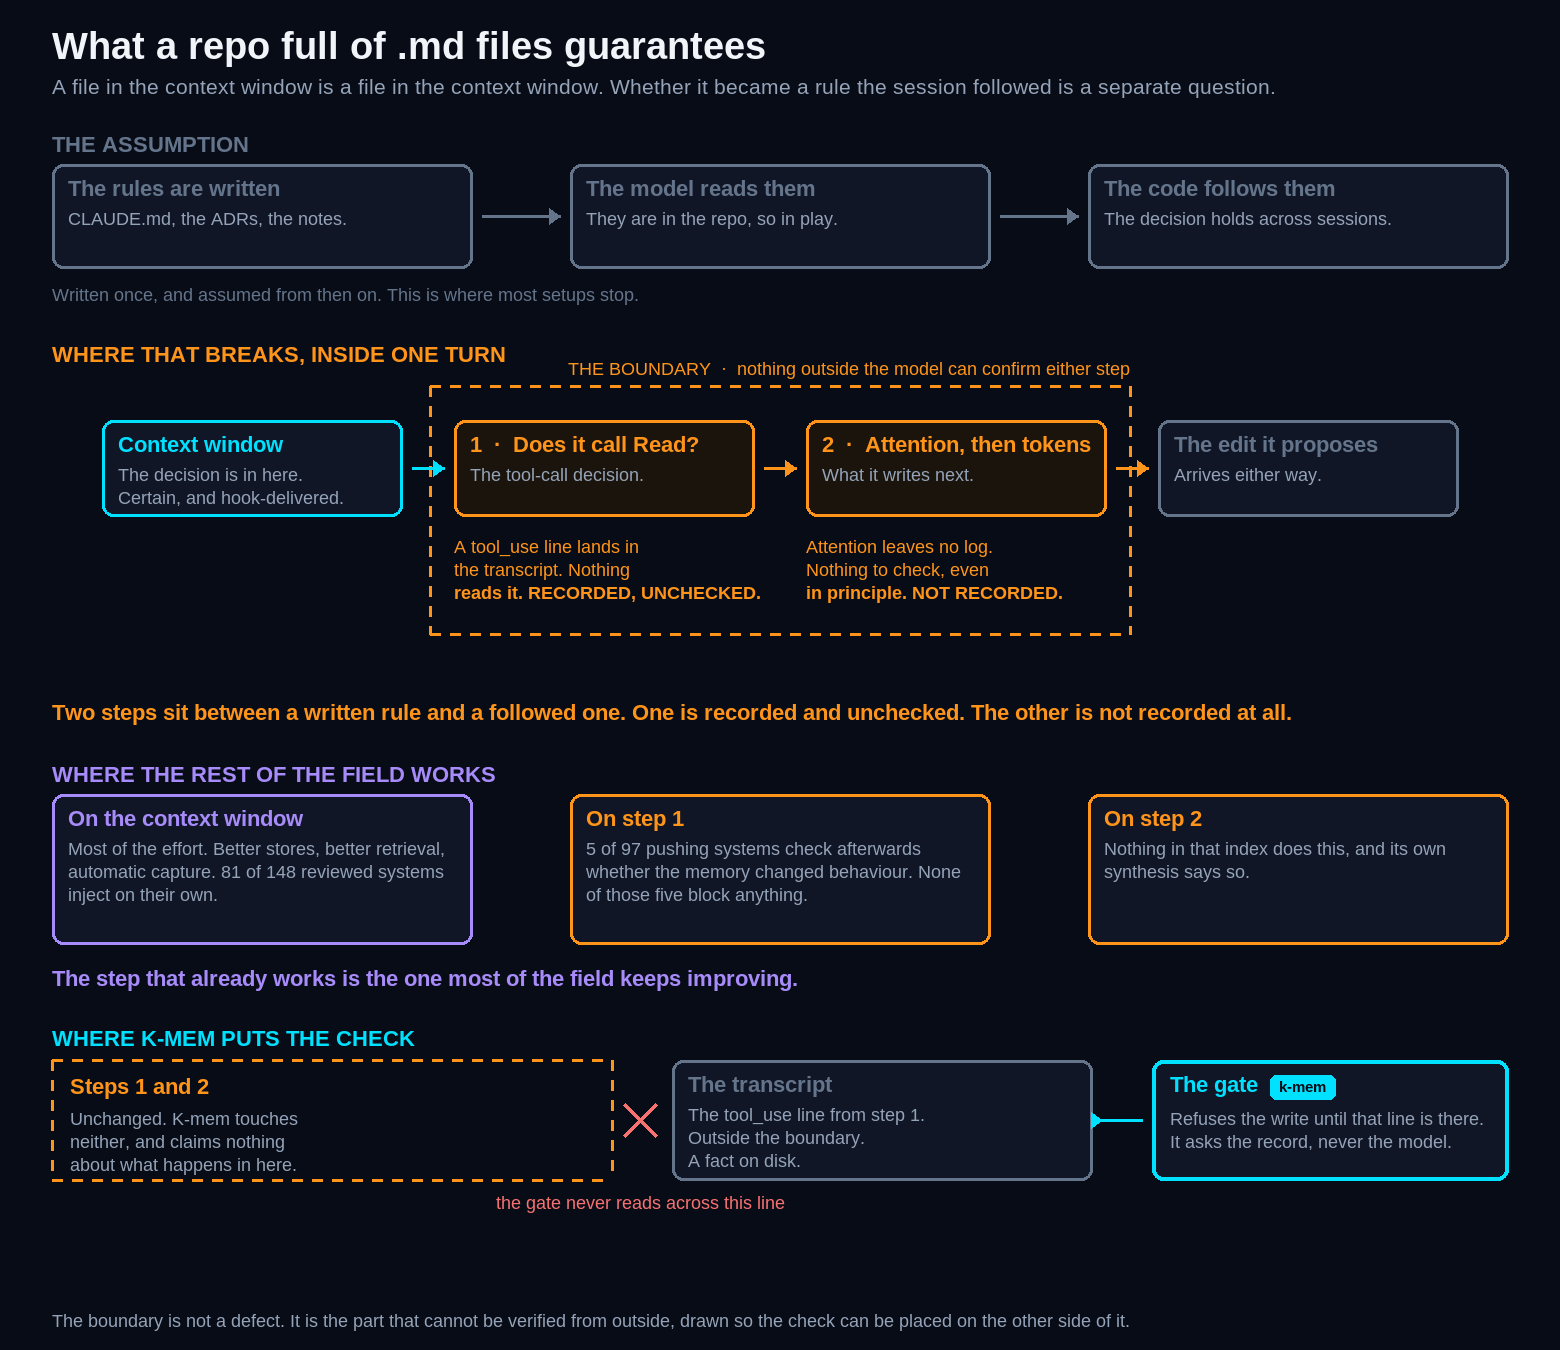
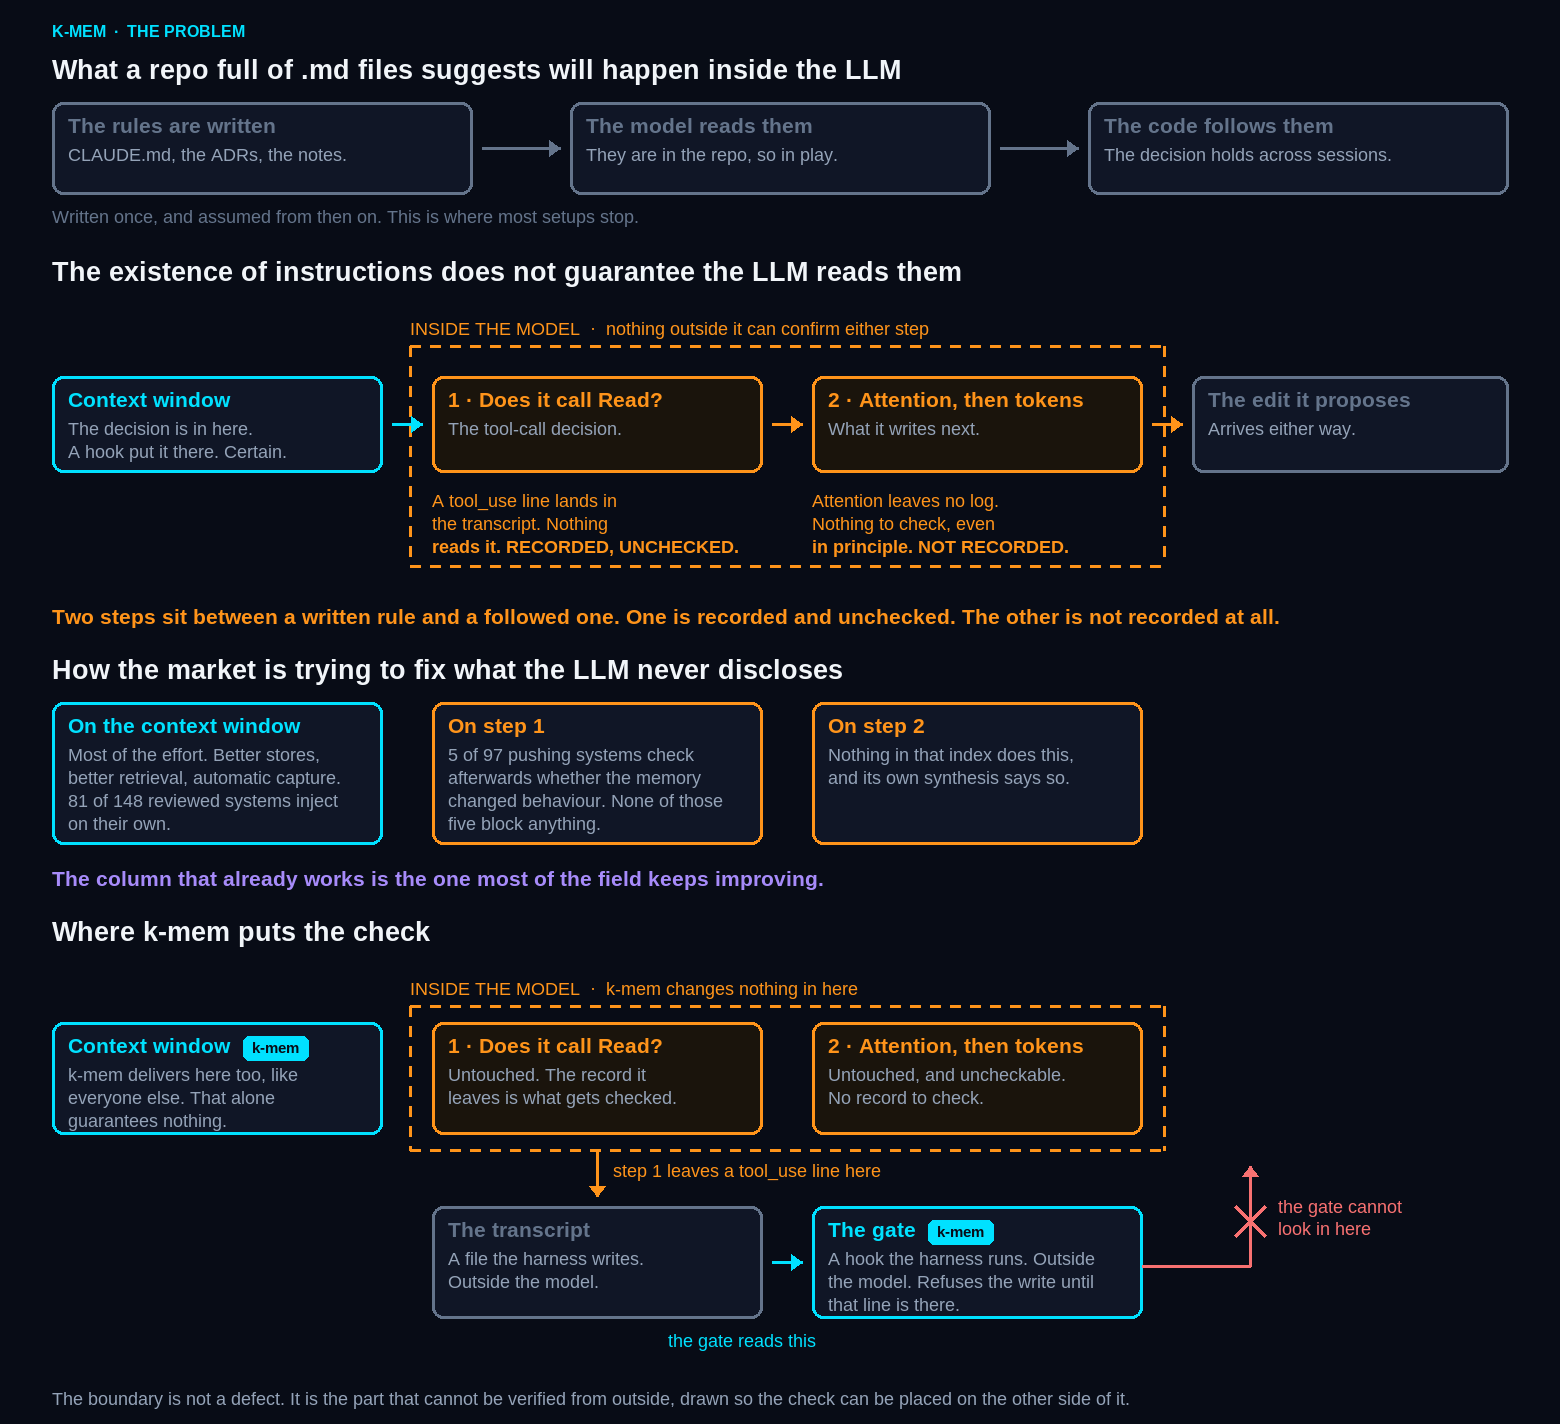
docs: rebuild the problem diagram around four equal sections
Four white headers of the same weight, one per section, replacing one
title and four coloured band labels. The first now says what a repo of
.md files suggests will happen inside the LLM, because that band shows
an assumption rather than a guarantee.

Three columns hold the same x down the page, so the context window,
step 1 and step 2 can be tracked downward. Colour follows meaning
rather than section: cyan for what is certain, orange for what is
sampled. The market band's first box was purple while the same column
above it was cyan, which broke that reading.

Two corrections of substance. K-mem does deliver to the context window,
the same place the rest of the field works, and saying otherwise
overclaimed; the box now says so and adds that delivery alone
guarantees nothing. And steps 1 and 2 are no longer lumped together:
step 1 leaves a record that can be checked, step 2 leaves none.

The transcript and the gate used to appear in the last band with no
origin. An arrow now runs from step 1 down to the transcript, both are
labelled as living outside the model, and the crossed line says the
gate cannot look inside rather than the unexplained "never reads
across this line".

diff --git a/scripts/make_brand_images.py b/scripts/make_brand_images.py
@@ -158,20 +158,22 @@ def make_gate_demo() -> Path:
 
 
 def make_fallacy() -> Path:
-    """The belief, where in the loop it breaks, and where the check goes.
+    """Four sections with equal white headers, three columns that hold the same x
+    down the page so a reader can track one column downward.
 
-    Band 2 locates the two unverifiable steps inside the model's own sequence
-    and draws the boundary around them. Band 4 puts the gate outside that
-    boundary, reading the record. Those two placements are the argument; a
-    version without them describes the problem and never answers it.
+    Colour carries meaning rather than section: cyan for what is certain, orange
+    for what is sampled. Band 4 places the transcript and the gate outside the
+    model and shows where the transcript's line comes from, because a check that
+    appears with no origin reads as an assertion.
     """
-    W, H = 1560, 1350
+    W, H = 1560, 1424
     im = Image.new("RGBA", (W, H), NAVY + (255,))
     d = ImageDraw.Draw(im)
-    f_title, f_band = font(SANS_BOLD, 38), font(SANS_BOLD, 22)
-    f_box, f_body, f_small = font(SANS_BOLD, 22), font(SANS, 21), font(SANS, 18)
-    f_tag = font(SANS_BOLD, 15)
+    f_h, f_over = font(SANS_BOLD, 27), font(SANS_BOLD, 16)
+    f_box, f_small, f_stmt = font(SANS_BOLD, 21), font(SANS, 18), font(SANS_BOLD, 21)
+    f_tag, f_lead = font(SANS_BOLD, 15), font(SANS_BOLD, 18)
     M, GREY, PURPLE = 52, (100, 116, 139), (167, 139, 250)
+    COLS, CW, DW = [52, 432, 812, 1192], 330, 316
 
     def wrap(text, f, limit):
         out, line = [], ""
@@ -183,20 +185,22 @@ def make_fallacy() -> Path:
                 line = trial
         return out + ([line] if line else [])
 
-    def box(x, y, w, h, title, body, colour, fill=PANEL, tint=None):
-        d.rounded_rectangle([(x, y), (x + w, y + h)], radius=11, fill=(tint or fill) + (255,), outline=colour + (255,), width=3)
-        d.text((x + 16, y + 12), title, font=f_box, fill=colour)
-        yy = y + 44
+    def box(x, y, w, h, title, body, colour, tint=None, mine=False):
+        d.rounded_rectangle([(x, y), (x + w, y + h)], radius=11, fill=(tint or PANEL) + (255,), outline=colour + (255,), width=3)
+        d.text((x + 16, y + 11), title, font=f_box, fill=colour)
+        if mine:
+            tx = x + 16 + d.textbbox((0, 0), title, font=f_box)[2] + 12
+            tw = d.textbbox((0, 0), "k-mem", font=f_tag)[2] + 18
+            d.rounded_rectangle([(tx, y + 14), (tx + tw, y + 38)], radius=6, fill=CYAN + (255,))
+            d.text((tx + 9, y + 17), "k-mem", font=f_tag, fill=NAVY)
+        yy = y + 42
         for ln in body:
             for piece in wrap(ln, f_small, w - 32):
                 d.text((x + 16, yy), piece, font=f_small, fill=MUTED); yy += 23
 
-    def h_arrow(x1, x2, y, colour, label=""):
+    def h_arrow(x1, x2, y, colour):
         d.line([(x1, y), (x2, y)], fill=colour, width=3)
         d.polygon([(x2, y), (x2 - 11, y - 8), (x2 - 11, y + 8)], fill=colour)
-        if label:
-            w = d.textbbox((0, 0), label, font=f_small)[2]
-            d.text(((x1 + x2 - w) // 2, y - 30), label, font=f_small, fill=colour)
 
     def dashed_rect(x1, y1, x2, y2, colour, step=20):
         for i in range(0, x2 - x1, step):
@@ -206,85 +210,80 @@ def make_fallacy() -> Path:
             d.line([(x1, y1 + i), (x1, y1 + min(i + 10, y2 - y1))], fill=colour, width=3)
             d.line([(x2, y1 + i), (x2, y1 + min(i + 10, y2 - y1))], fill=colour, width=3)
 
-    d.text((M, 24), "What a repo full of .md files guarantees", font=f_title, fill=FG)
-    d.text((M, 74), "A file in the context window is a file in the context window. Whether it became a rule the session followed is a separate question.",
-           font=f_body, fill=MUTED)
+    d.text((M, 22), "K-MEM  ·  THE PROBLEM", font=f_over, fill=CYAN)
 
-    # --- band 1: the belief ----------------------------------------------------
-    d.text((M, 132), "THE ASSUMPTION", font=f_band, fill=GREY)
-    bw, by, bh = 420, 164, 104
-    gap = (W - 2 * M - 3 * bw) // 2
-    box(M, by, bw, bh, "The rules are written", ["CLAUDE.md, the ADRs, the notes."], GREY)
-    box(M + bw + gap, by, bw, bh, "The model reads them", ["They are in the repo, so in play."], GREY)
-    box(M + 2 * (bw + gap), by, bw, bh, "The code follows them", ["The decision holds across sessions."], GREY)
-    h_arrow(M + bw + 10, M + bw + gap - 10, by + bh // 2, GREY)
-    h_arrow(M + 2 * bw + gap + 10, M + 2 * (bw + gap) - 10, by + bh // 2, GREY)
-    d.text((M, by + bh + 16), "Written once, and assumed from then on. This is where most setups stop.", font=f_small, fill=GREY)
-
-    # --- band 2: where it actually happens, inside the model --------------------
-    d.text((M, 342), "WHERE THAT BREAKS, INSIDE ONE TURN", font=f_band, fill=ORANGE)
-    sy, sh, sw = 420, 96, 300
-    xs = [102, 454, 806, 1158]
-    dashed_rect(xs[1] - 24, sy - 34, xs[2] + sw + 24, sy + sh + 118, ORANGE)
-    bl = "THE BOUNDARY  ·  nothing outside the model can confirm either step"
-    d.text((xs[2] + sw + 24 - d.textbbox((0, 0), bl, font=f_small)[2], sy - 62), bl, font=f_small, fill=ORANGE)
-    box(xs[0], sy, sw, sh, "Context window", ["The decision is in here.", "Certain, and hook-delivered."], CYAN)
-    box(xs[1], sy, sw, sh, "1  ·  Does it call Read?", ["The tool-call decision."], ORANGE, tint=(26, 20, 12))
-    box(xs[2], sy, sw, sh, "2  ·  Attention, then tokens", ["What it writes next."], ORANGE, tint=(26, 20, 12))
-    box(xs[3], sy, sw, sh, "The edit it proposes", ["Arrives either way."], GREY)
-    for a, b in [(0, 1), (1, 2), (2, 3)]:
-        h_arrow(xs[a] + sw + 10, xs[b] - 10, sy + sh // 2, ORANGE if a else CYAN)
-    d.text((xs[1], sy + sh + 20), "A tool_use line lands in", font=f_small, fill=ORANGE)
-    d.text((xs[1], sy + sh + 43), "the transcript. Nothing", font=f_small, fill=ORANGE)
-    d.text((xs[1], sy + sh + 66), "reads it. RECORDED, UNCHECKED.", font=font(SANS_BOLD, 18), fill=ORANGE)
-    d.text((xs[2], sy + sh + 20), "Attention leaves no log.", font=f_small, fill=ORANGE)
-    d.text((xs[2], sy + sh + 43), "Nothing to check, even", font=f_small, fill=ORANGE)
-    d.text((xs[2], sy + sh + 66), "in principle. NOT RECORDED.", font=font(SANS_BOLD, 18), fill=ORANGE)
-    d.text((M, 700), "Two steps sit between a written rule and a followed one. One is recorded and unchecked. The other is not recorded at all.",
-           font=font(SANS_BOLD, 22), fill=ORANGE)
-
-    # --- band 3: where the field works -----------------------------------------
-    d.text((M, 762), "WHERE THE REST OF THE FIELD WORKS", font=f_band, fill=PURPLE)
-    ey, eh, ew = 794, 150, 420
-    for i, (head, body, colour) in enumerate([
-        ("On the context window", "Most of the effort. Better stores, better retrieval, automatic capture. 81 of 148 reviewed systems inject on their own.", PURPLE),
-        ("On step 1", "5 of 97 pushing systems check afterwards whether the memory changed behaviour. None of those five block anything.", ORANGE),
-        ("On step 2", "Nothing in that index does this, and its own synthesis says so.", ORANGE),
+    # --- 1 · the assumption ----------------------------------------------------
+    d.text((M, 54), "What a repo full of .md files suggests will happen inside the LLM", font=f_h, fill=FG)
+    by, bh, w1 = 102, 92, 420
+    g1 = (W - 2 * M - 3 * w1) // 2
+    for i, (title, body) in enumerate([
+        ("The rules are written", "CLAUDE.md, the ADRs, the notes."),
+        ("The model reads them", "They are in the repo, so in play."),
+        ("The code follows them", "The decision holds across sessions."),
     ]):
-        x = M + i * (ew + gap)
-        box(x, ey, ew, eh, head, [body], colour)
-    d.text((M, 966), "The step that already works is the one most of the field keeps improving.", font=font(SANS_BOLD, 22), fill=PURPLE)
+        box(M + i * (w1 + g1), by, w1, bh, title, [body], GREY)
+    h_arrow(M + w1 + 10, M + w1 + g1 - 10, by + bh // 2, GREY)
+    h_arrow(M + 2 * w1 + g1 + 10, M + 2 * (w1 + g1) - 10, by + bh // 2, GREY)
+    d.text((M, 206), "Written once, and assumed from then on. This is where most setups stop.", font=f_small, fill=GREY)
 
-    # --- band 4: the check, outside the boundary --------------------------------
-    d.text((M, 1026), "WHERE K-MEM PUTS THE CHECK", font=f_band, fill=CYAN)
-    gy = 1060
-    dashed_rect(M, gy, M + 560, gy + 120, ORANGE)
-    d.text((M + 18, gy + 14), "Steps 1 and 2", font=f_box, fill=ORANGE)
-    d.text((M + 18, gy + 48), "Unchanged. K-mem touches", font=f_small, fill=MUTED)
-    d.text((M + 18, gy + 71), "neither, and claims nothing", font=f_small, fill=MUTED)
-    d.text((M + 18, gy + 94), "about what happens in here.", font=f_small, fill=MUTED)
+    # --- 2 · where it breaks ---------------------------------------------------
+    d.text((M, 256), "The existence of instructions does not guarantee the LLM reads them", font=f_h, fill=FG)
+    sy, sh = 376, 96
+    d.text((COLS[1] - 22, 318), "INSIDE THE MODEL  ·  nothing outside it can confirm either step", font=f_small, fill=ORANGE)
+    dashed_rect(COLS[1] - 22, 346, COLS[2] + CW + 22, 566, ORANGE)
+    box(COLS[0], sy, CW, sh, "Context window", ["The decision is in here.", "A hook put it there. Certain."], CYAN)
+    box(COLS[1], sy, CW, sh, "1 · Does it call Read?", ["The tool-call decision."], ORANGE, tint=(26, 20, 12))
+    box(COLS[2], sy, CW, sh, "2 · Attention, then tokens", ["What it writes next."], ORANGE, tint=(26, 20, 12))
+    box(COLS[3], sy, DW, sh, "The edit it proposes", ["Arrives either way."], GREY)
+    for a, b in [(0, 1), (1, 2), (2, 3)]:
+        h_arrow(COLS[a] + CW + 10, COLS[b] - 10, sy + sh // 2, CYAN if a == 0 else ORANGE)
+    for col, lines in [(COLS[1], ["A tool_use line lands in", "the transcript. Nothing", "reads it. RECORDED, UNCHECKED."]),
+                       (COLS[2], ["Attention leaves no log.", "Nothing to check, even", "in principle. NOT RECORDED."])]:
+        for i, ln in enumerate(lines):
+            d.text((col, 490 + i * 23), ln, font=f_lead if i == 2 else f_small, fill=ORANGE)
+    d.text((M, 604), "Two steps sit between a written rule and a followed one. One is recorded and unchecked. The other is not recorded at all.",
+           font=f_stmt, fill=ORANGE)
 
-    box(M + 620, gy, 420, 120, "The transcript", ["The tool_use line from step 1.", "Outside the boundary.", "A fact on disk."], GREY)
+    # --- 3 · the market --------------------------------------------------------
+    d.text((M, 654), "How the market is trying to fix what the LLM never discloses", font=f_h, fill=FG)
+    ey, eh = 702, 142
+    box(COLS[0], ey, CW, eh, "On the context window", ["Most of the effort. Better stores,", "better retrieval, automatic capture.",
+                                                       "81 of 148 reviewed systems inject", "on their own."], CYAN)
+    box(COLS[1], ey, CW, eh, "On step 1", ["5 of 97 pushing systems check", "afterwards whether the memory",
+                                           "changed behaviour. None of those", "five block anything."], ORANGE)
+    box(COLS[2], ey, CW, eh, "On step 2", ["Nothing in that index does this,", "and its own synthesis says so."], ORANGE)
+    d.text((M, 866), "The column that already works is the one most of the field keeps improving.", font=f_stmt, fill=PURPLE)
 
-    gx = M + 1100
-    d.rounded_rectangle([(gx, gy), (W - M, gy + 120)], radius=11, fill=PANEL + (255,), outline=CYAN + (255,), width=4)
-    d.text((gx + 18, gy + 12), "The gate", font=f_box, fill=CYAN)
-    tw = d.textbbox((0, 0), "k-mem", font=f_tag)[2] + 18
-    d.rounded_rectangle([(gx + 18 + d.textbbox((0, 0), "The gate", font=f_box)[2] + 12, gy + 15),
-                         (gx + 18 + d.textbbox((0, 0), "The gate", font=f_box)[2] + 12 + tw, gy + 39)], radius=6, fill=CYAN + (255,))
-    d.text((gx + 27 + d.textbbox((0, 0), "The gate", font=f_box)[2] + 12, gy + 18), "k-mem", font=f_tag, fill=NAVY)
-    yy = gy + 48
-    for piece in wrap("Refuses the write until that line is there. It asks the record, never the model.", f_small, W - M - gx - 32):
-        d.text((gx + 18, yy), piece, font=f_small, fill=MUTED); yy += 23
+    # --- 4 · the check ---------------------------------------------------------
+    d.text((M, 916), "Where k-mem puts the check", font=f_h, fill=FG)
+    ky, kh = 1022, 112
+    d.text((COLS[1] - 22, 978), "INSIDE THE MODEL  ·  k-mem changes nothing in here", font=f_small, fill=ORANGE)
+    dashed_rect(COLS[1] - 22, 1006, COLS[2] + CW + 22, 1150, ORANGE)
+    box(COLS[0], ky, CW, kh, "Context window", ["k-mem delivers here too, like", "everyone else. That alone",
+                                                "guarantees nothing."], CYAN, mine=True)
+    box(COLS[1], ky, CW, kh, "1 · Does it call Read?", ["Untouched. The record it", "leaves is what gets checked."], ORANGE, tint=(26, 20, 12))
+    box(COLS[2], ky, CW, kh, "2 · Attention, then tokens", ["Untouched, and uncheckable.", "No record to check."], ORANGE, tint=(26, 20, 12))
 
-    h_arrow(gx - 10, M + 620 + 420 + 10, gy + 60, CYAN)
-    cx = M + 588
-    for a, b in [((cx - 16, gy + 44), (cx + 16, gy + 76)), ((cx + 16, gy + 44), (cx - 16, gy + 76))]:
+    ty, th = 1206, 112
+    box(COLS[1], ty, CW, th, "The transcript", ["A file the harness writes.", "Outside the model."], GREY)
+    box(COLS[2], ty, CW, th, "The gate", ["A hook the harness runs. Outside", "the model. Refuses the write until", "that line is there."], CYAN, mine=True)
+    # step 1 is where the transcript's line comes from
+    d.line([(COLS[1] + CW // 2, 1150), (COLS[1] + CW // 2, ty - 10)], fill=ORANGE, width=3)
+    d.polygon([(COLS[1] + CW // 2, ty - 10), (COLS[1] + CW // 2 - 8, ty - 20), (COLS[1] + CW // 2 + 8, ty - 20)], fill=ORANGE)
+    d.text((COLS[1] + CW // 2 + 16, 1160), "step 1 leaves a tool_use line here", font=f_small, fill=ORANGE)
+    h_arrow(COLS[1] + CW + 10, COLS[2] - 10, ty + th // 2, CYAN)
+    d.text((668, ty + th + 12), "the gate reads this", font=f_small, fill=CYAN)
+    # and never the other way
+    rx = 1250
+    d.line([(COLS[2] + CW, ty + 60), (rx, ty + 60)], fill=RED, width=3)
+    d.line([(rx, ty + 60), (rx, 1166)], fill=RED, width=3)
+    d.polygon([(rx, 1166), (rx - 8, 1176), (rx + 8, 1176)], fill=RED)
+    for a, b in [((rx - 15, 1206), (rx + 15, 1236)), ((rx + 15, 1206), (rx - 15, 1236))]:
         d.line([a, b], fill=RED, width=4)
-    nc = "the gate never reads across this line"
-    d.text((cx - d.textbbox((0, 0), nc, font=f_small)[2] // 2, gy + 132), nc, font=f_small, fill=RED)
+    d.text((rx + 28, 1196), "the gate cannot", font=f_small, fill=RED)
+    d.text((rx + 28, 1218), "look in here", font=f_small, fill=RED)
 
-    d.text((M, H - 40), "The boundary is not a defect. It is the part that cannot be verified from outside, drawn so the check can be placed on the other side of it.",
+    d.text((M, H - 36), "The boundary is not a defect. It is the part that cannot be verified from outside, drawn so the check can be placed on the other side of it.",
            font=f_small, fill=MUTED)
     im.convert("RGB").save(ASSETS / "the-fallacy.png", optimize=True)
     return ASSETS / "the-fallacy.png"

diff --git a/README.md b/README.md
@@ -27,7 +27,7 @@ Storage is well served. A [public review index](https://zby.github.io/commonplac
 
 <div align="center">
 
-<img src="docs/assets/the-fallacy.png" alt="Four bands. The assumption: rules are written, the model reads them, the code follows. Where that breaks inside one turn: the context window is certain, then two steps sit inside a dashed boundary, the tool-call decision which is recorded and unchecked, and attention which is not recorded at all. Where the rest of the field works: mostly on the context window. Where k-mem puts the check: the gate sits outside the boundary and reads the transcript, never the model." width="1000">
+<img src="docs/assets/the-fallacy.png" alt="Four sections. What a repo of .md files suggests will happen inside the LLM: rules written, model reads them, code follows. Why that does not hold: the context window is certain, then two steps sit inside the model, the tool-call decision which is recorded and unchecked, and attention which is not recorded at all. How the market is trying to fix it: mostly on the context window. Where k-mem puts the check: it delivers to the context window like everyone else, changes nothing inside the model, and places a gate outside it that reads the transcript line step one leaves." width="1000">
 
 </div>
 
